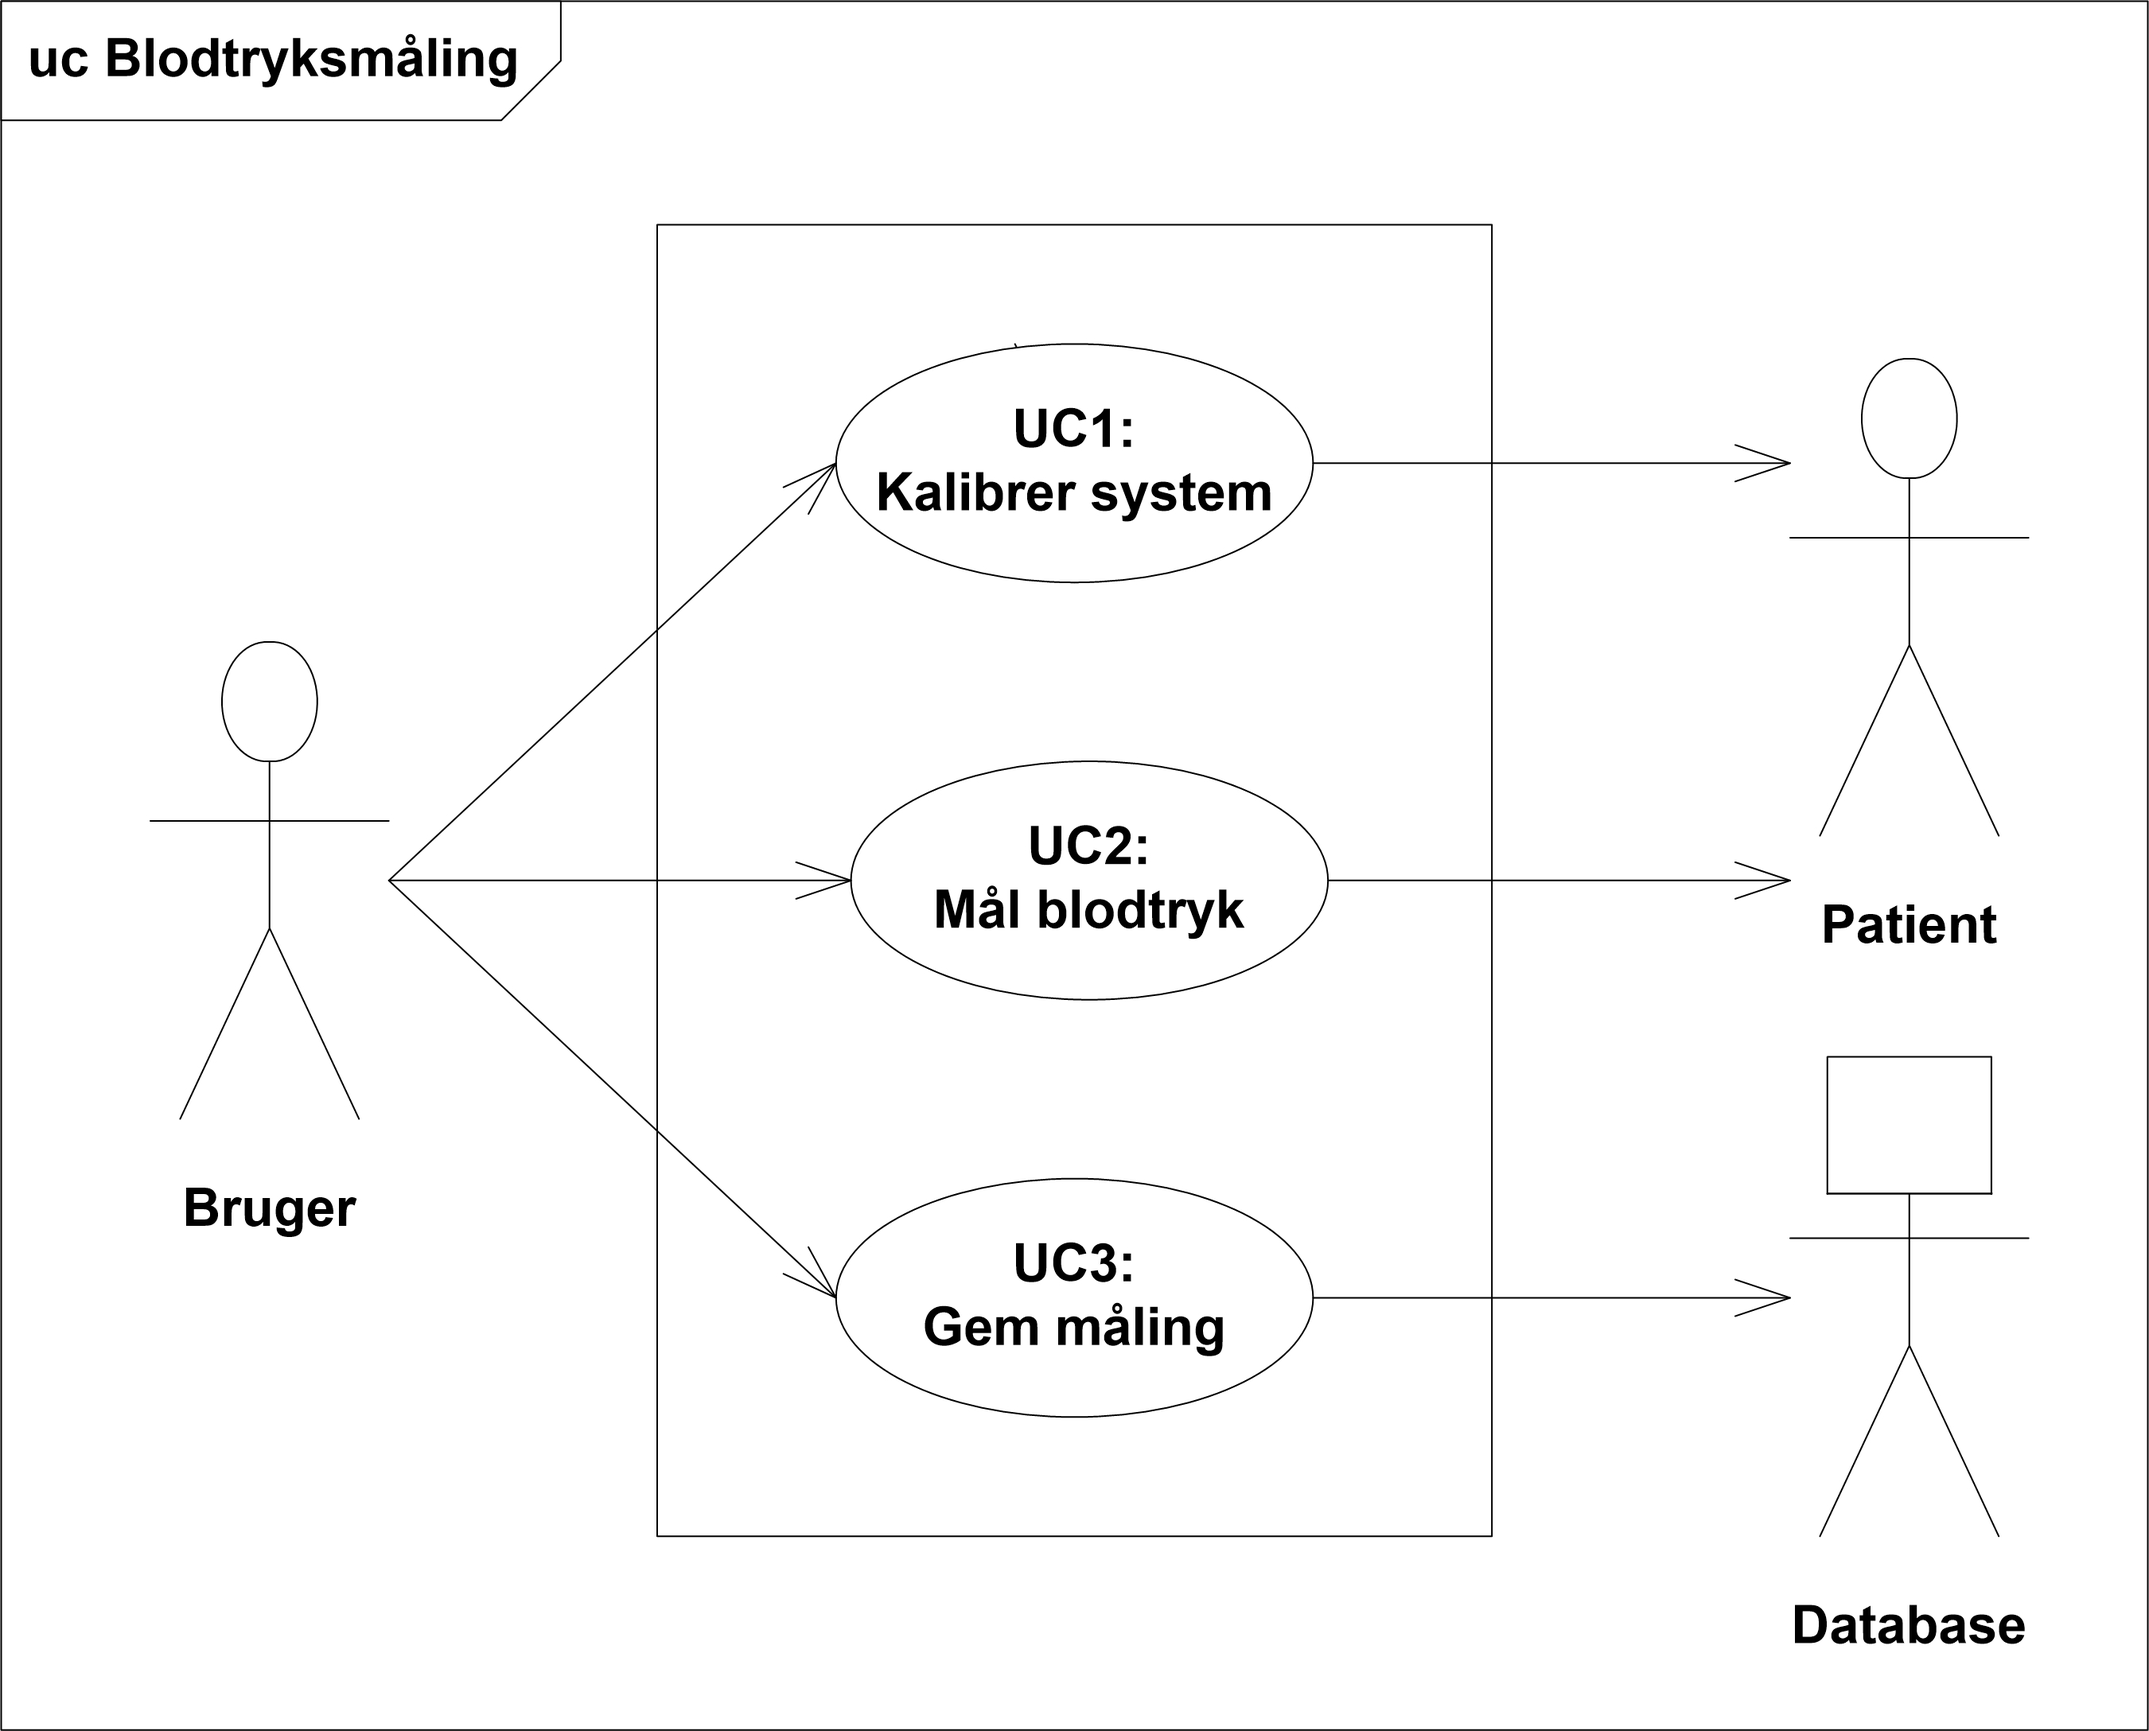
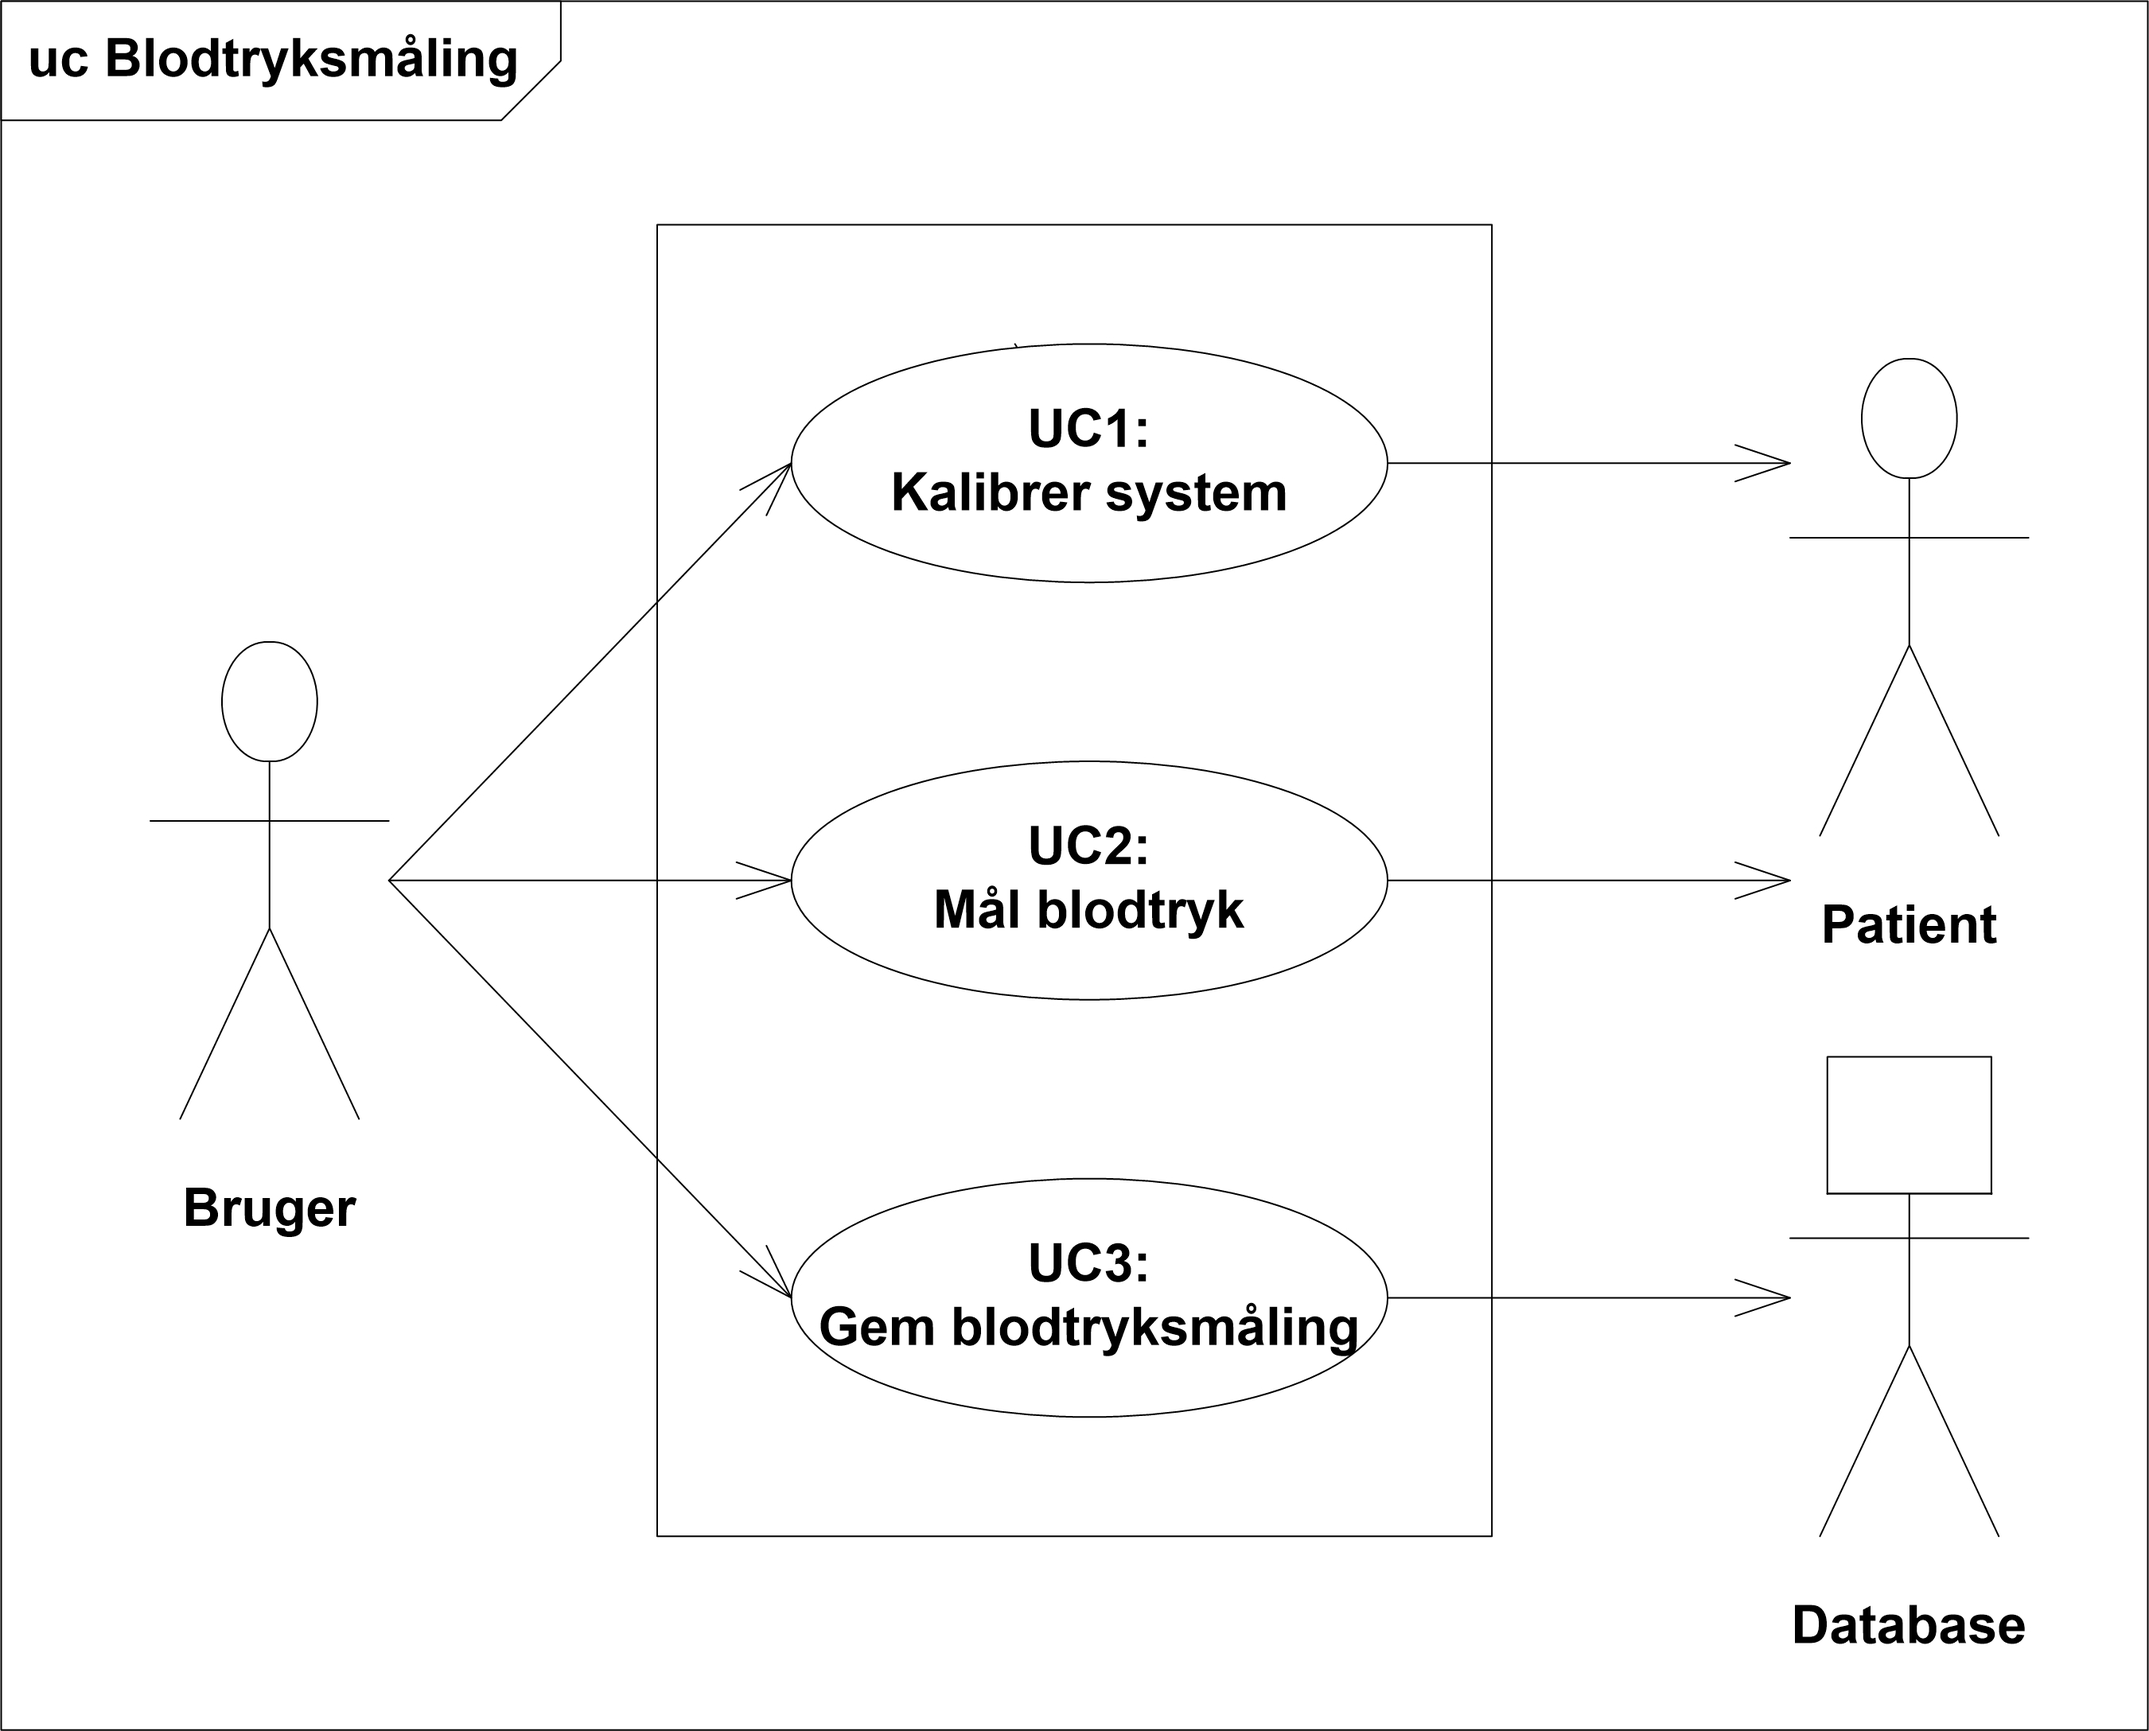
Mødereferat og logbog

diff --git a/LaTex - Projekt/Mfiler/2015-09-23.tex b/LaTex - Projekt/Mfiler/2015-09-23.tex
@@ -1,0 +1,34 @@
+\chapter{Mødereferat}
+
+\textbf{Dato:} 23-09-2015
+
+\textbf{Fremmødte:} Alle
+
+\textbf{Fraværende:} Ingen
+
+\textbf{Dagens dagsorden:}
+\begin{itemize}
+	\item Vores valg af institution
+	\item Udkast til krav
+	\item Spørgsmål
+	\SubItem Ansvarsområder i rapporten?
+	\SubItem Fast ugentlig vejledermøde tirsdag kl. 12.15
+	\SubItem Hvordan kalibrerer man i praksis?
+	\SubItem Er der forskel på kalibrering og en nulpunktsjustering?
+	\SubItem Hvilken vej peger pilene på use case diagrammer?
+	\SubItem Skal patient med i use case diagrammet, eller er han off-stage aktør?
+\end{itemize}
+
+\textbf{Referat:}
+\\Valg af institution blev operationsstuen, hvilket er et godt valg. 
+\\Udkast til krav, alarmen skal kunne tage højde for om patienten i forvejen har et kendt forhøjet blodtryk.
+\\Der er forskel på kalibrering og nulpunktsjustering. Man kan overveje om man skal have en aftle om at kalibrerer apperatet en gang årligt, mens nulpunktsjusteringen skal foretages hver gang. Vi bør have en primær aktør, der er medicotekniker med egen use case. 
+\\Skal man have en log in funktion? Det er normalt at operatøren giver sig selv til kende ved eks. ultralydsscanninger. Personale ID, dermed også login usecase. Man kunne lave en opstarts procedure der logger personalet ind og nulpunktsjusterer.
+\\Lyder fornuftigt at have en gem funktion der gemmer alt det der er optaget efter en måling. Gem use casen skal hedde afslut som gemmer og logger ud.
+\\Fast ugentligt vejledermøde tirsdag fra 13:15 hver uge. Udkast og dagsoden fremsendes før møde.
+\\Thomas kigger på kalibrering til næste gang. Hvis en volt skal svarer til 1 mm kviksølv og det ikke stemmer overens kan man øge forstærkningen enten med hardwear eller softwear.Man kalibrerer et system for at finde ud af hvad "fejlen" på systemet er.
+\\Der behøver ikke være pile på use case diagrammet, vi laver streger.
+\\Patient er sekundær aktør.
+\\I forhold til ansvarsområder på rapporten er det nødvendigt eller ej at skrive hvem der har lavet hvad? Det er ikke det mest kritiske. Det kommer alligevel på i versions historikken.
+\\The not so short introduction to LaTex er et godt dokument at læse for at få lidt basisviden omkring programmet.
+\\Når vi har funktionelle krav i vores use cases skal de fjernes fra MOSCOW krav.

diff --git a/LaTex - Projekt/Lfiler/2015-09-23.tex b/LaTex - Projekt/Lfiler/2015-09-23.tex
@@ -1,9 +1,9 @@
 \chapter{Logbog}
 
-\textbf{Dato:} 
-\textbf{Omhandler:} 
-
-\textbf{Ansvarlige:} 
+\textbf{Dato:} 29/9 2015 
+\textbf{Omhandler:} Use cases og kravspecifikation
+\textbf{Fremmøde:} Alle
+\textbf{Ansvarlige:} Alle
 \textbf{Logbog}
 \\
 \\
@@ -14,24 +14,15 @@ Dagsorden:
 	\item Vejledermøde
 \end{itemize}
 
+Dagens arbejde: \\
+I dag har vi udarbejdet use case diagram og lavet et udkast til vores fully dressed use cases og krav specifikation.\\
 
-\begin{itemize}
-	\item 
-	\item 
-	\item
-\end{itemize}
-
-
-\begin{itemize}
-	\item  
-	\item 
-	\item 
-\end{itemize}
 
 Spørgsmål vejleder: \\
 Ansvarsområder i rapporten?\\
 Fast ugentlig arbejdsmøde onsdag kl. 09.15\\
-Fast ugentlig vejledermøde torsdag kl. 14.15\\
-
-Valgt situation - operationsstue\\
-Sara er scrummaster - vi benytter Samuels program\\
+Fast ugentlig vejledermøde tirsdag kl. 12.15\\
+Hvordan kalibrerer man i praksis?\\
+Er der forskel på kalibrering og en nulpunktsjustering?\\
+Hvilken vej peger pilene på use case diagrammer?\\
+Skal patient med i use case diagrammet, eller er han off-stage aktør?\\
